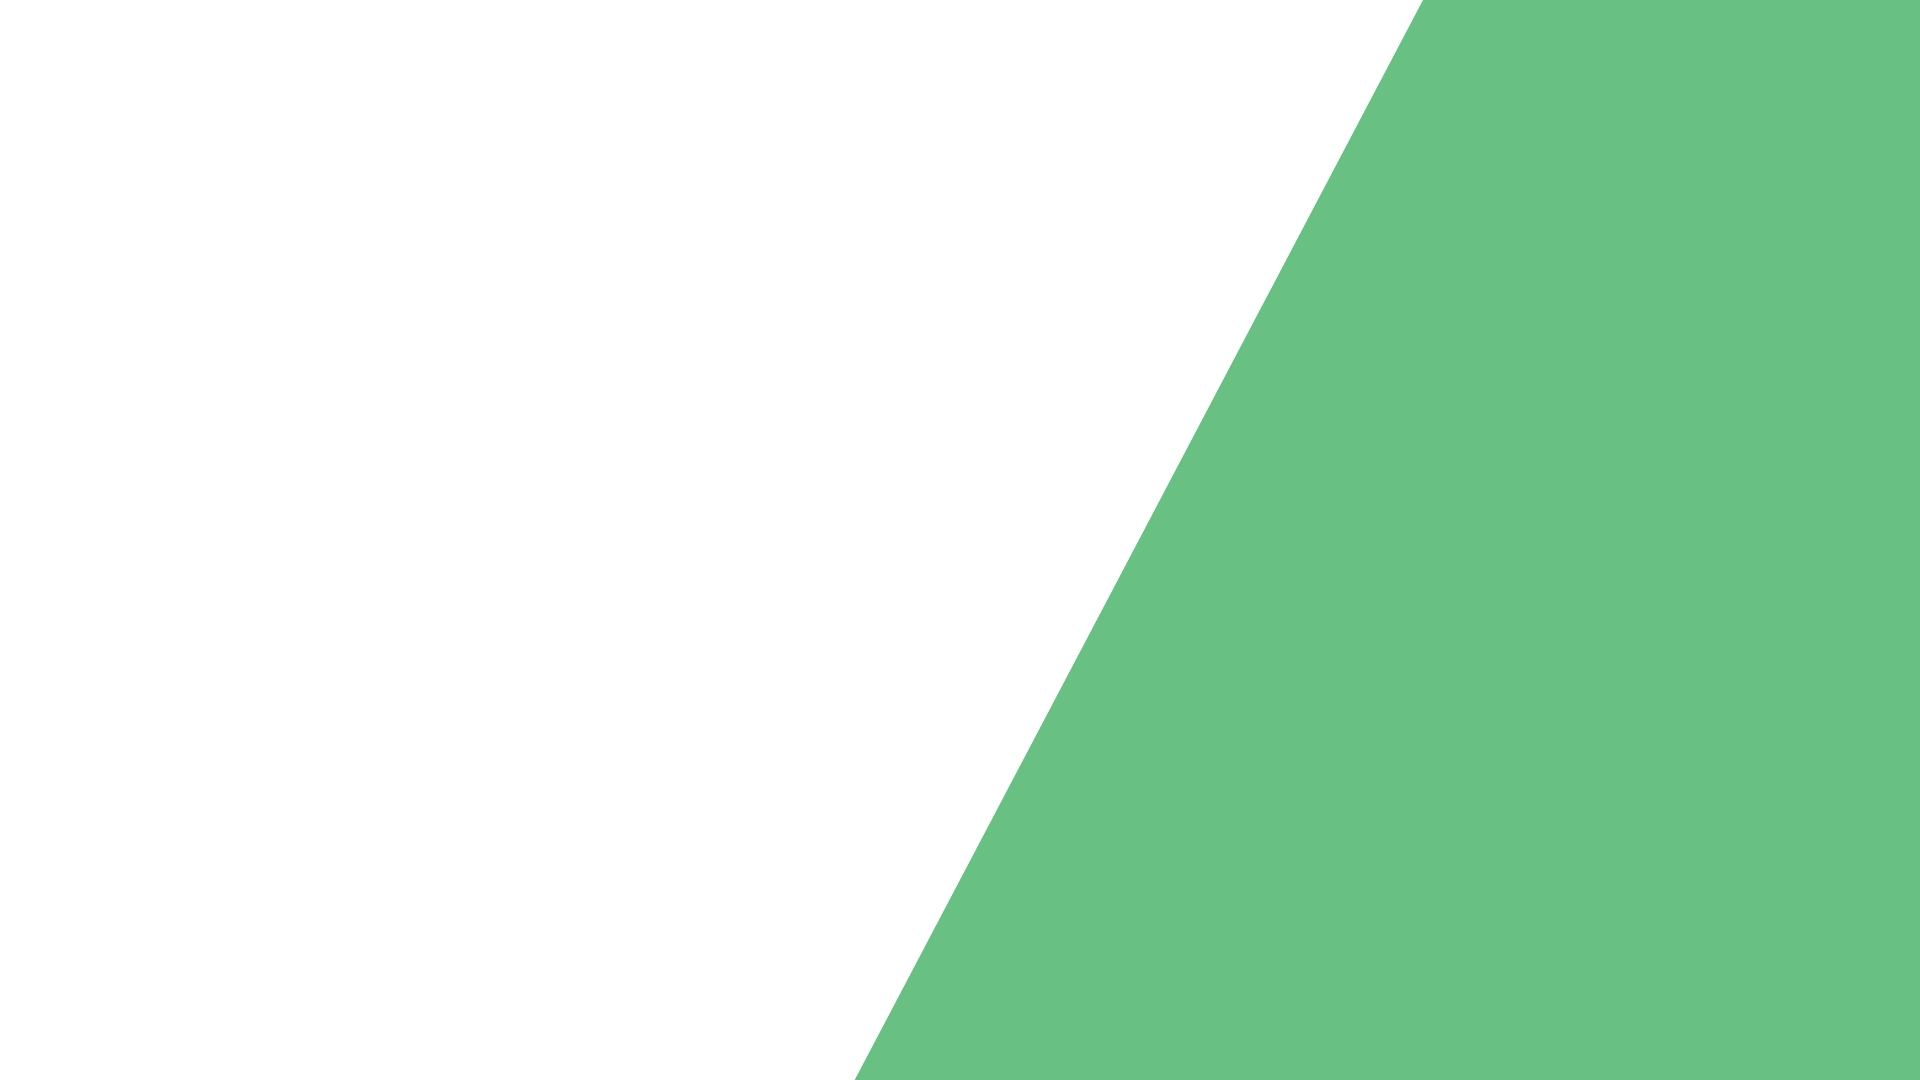
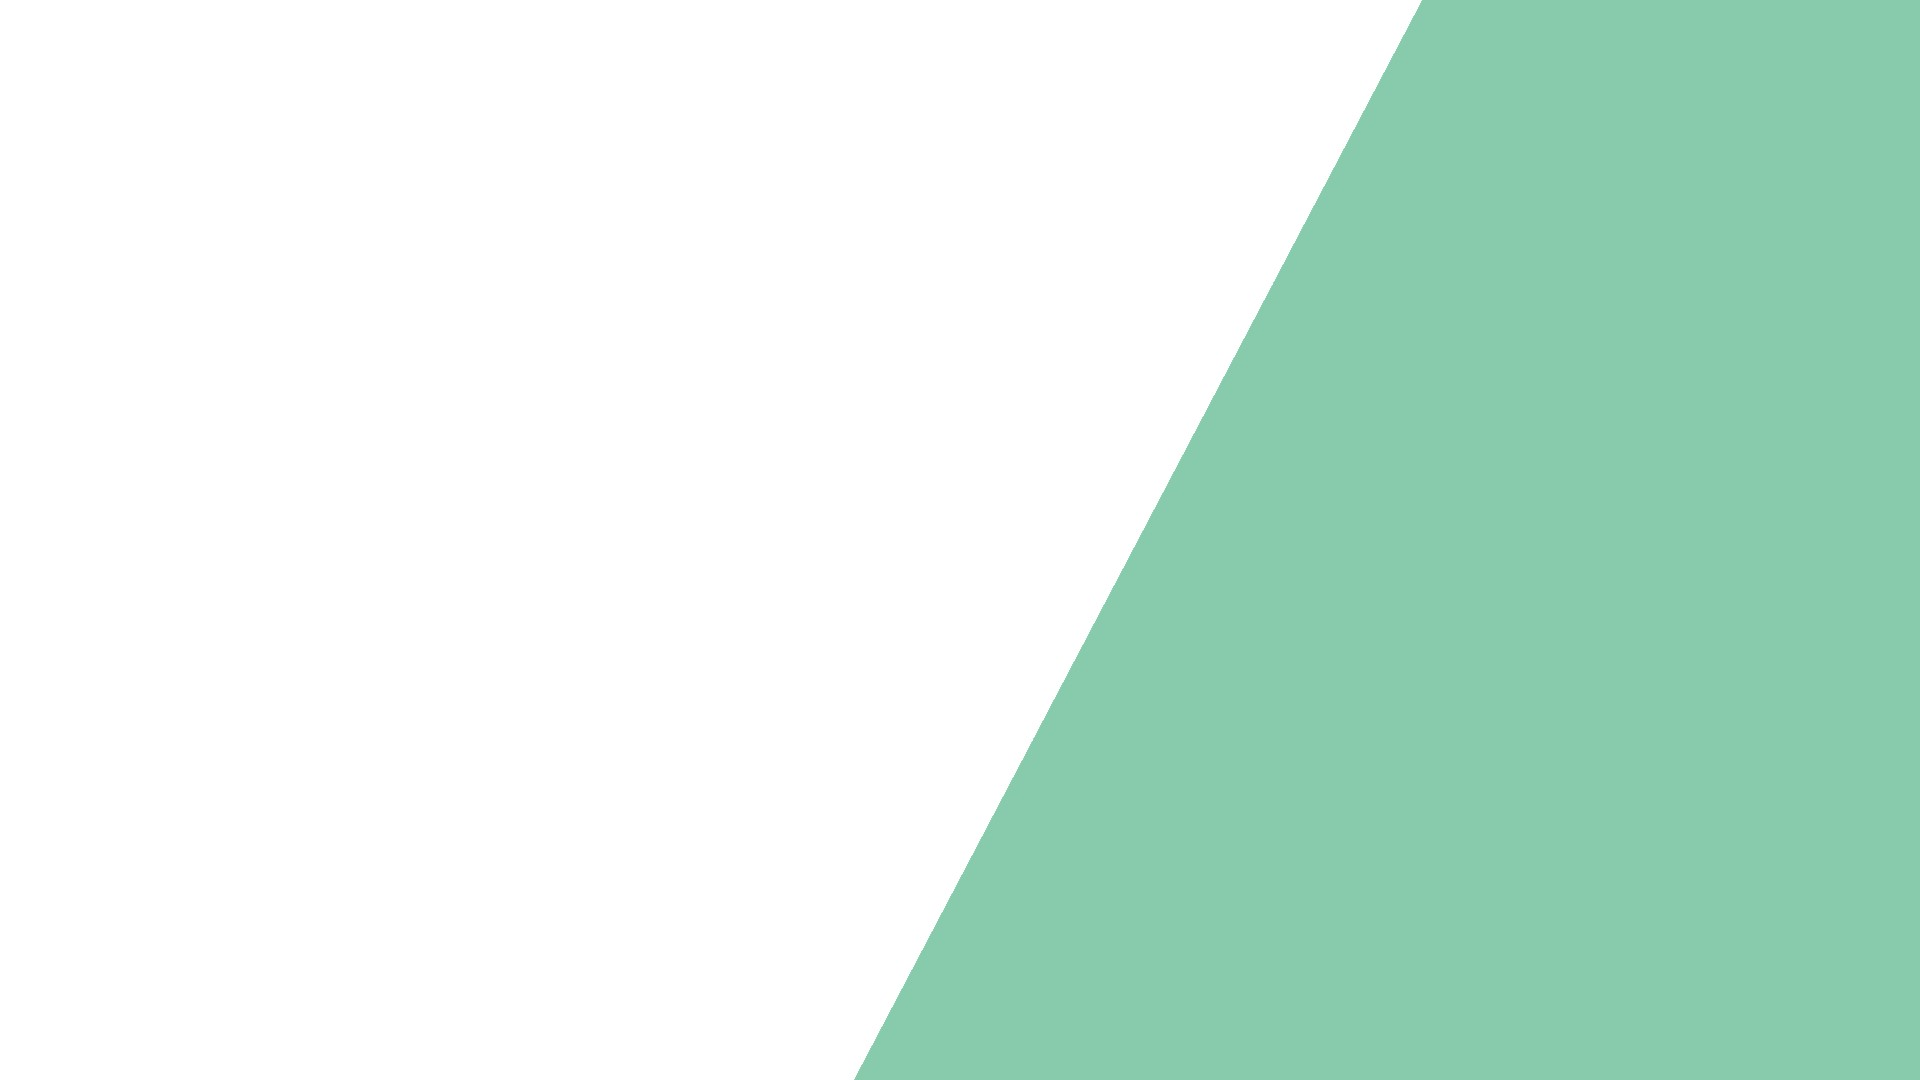
change color and finished automechanic questions

diff --git a/interview.js b/interview.js
@@ -53,6 +53,37 @@ const interviewQuestions = {
             "question":"In a tractor, explain how the hydrostatic propulsion systems work?",           
             "answer":"This system is based on Pascal’s law. In a tractor the pressure is same, so the force given by the liquid to the surrounding is equal to the pressure X area. Thus, obeying the Pascal’s law hydrostatic propulsion system is designed, similarly small piston feels small force and the large piston feels larger area.", 
         },
+        {
+            "field":"mechanics",    
+            "jobTitle":"automotiveEngineer", 
+            "question":"How does humidity affect cooling for a radiator? A person?",           
+            "answer":"Radiator cools more efficiently during high-humidity because it does not rely on evaporative cooling. A person cools less efficiently because the body relies on evaporative cooling and when the air high a high umidity content evaporation occurs slowly.", 
+        },
+        {
+            "field":"mechanics",    
+            "jobTitle":"automotiveEngineer", 
+            "question":"Explain how you can keep your car in good condition?",           
+            "answer":"Regular check-up of parts  like the battery, tires and brakes fluid levels ( coolant, washer fluid, brake fluid, oil, power steering, etc.) fuel filters and injector belts and hose alternator lubrication of wheel bearing and ball joints", 
+        },
+        {
+            "field":"mechanics",    
+            "jobTitle":"automotiveEngineer", 
+            "question":"How often does a car requires services?",           
+            "answer":"Car requires services yearly and major maintenance at 6,000 miles.", 
+        },
+        {
+            "field":"mechanics",    
+            "jobTitle":"automotiveEngineer", 
+            "question":"Before buying a used car what things you should look for?",           
+            "answer":"Any leakage of oil underneath the car. Check any leakage of coolant water from the radiator. Check battery condition. Check whether car emits blue gray, dense smoke or a normal smoke from exhaust pipe. Watch out for engine noises, any vibrations, lack of power or any other issues. Check for any burning smells when open the hood. Check steering wheel, driver’s seat and inner door. Check tires ( Edge should not worn out, no bulge on the sidewall, no cuts, enough groves to hold the road). Check all meter work fine when you start the car", 
+        },
+        {
+            "field":"mechanics",    
+            "jobTitle":"automotiveEngineer", 
+            "question":"Explain how timing belt works?",           
+            "answer":"Timing belt rests on the crankshaft pulley and either one or two camshaft pulley; they are all align through timing belt. The closing and opening of engine valves are controlled by camshaft to let in air and fuel mixture or exhaust gas, if you do not have a timing belt or damaged timing,  it will directly affect the timing of opening and closing of engine valves. This is the reason it is called timing belt and if not in a good position, it will damage your engine.", 
+        },
+
 
     ]
 }
